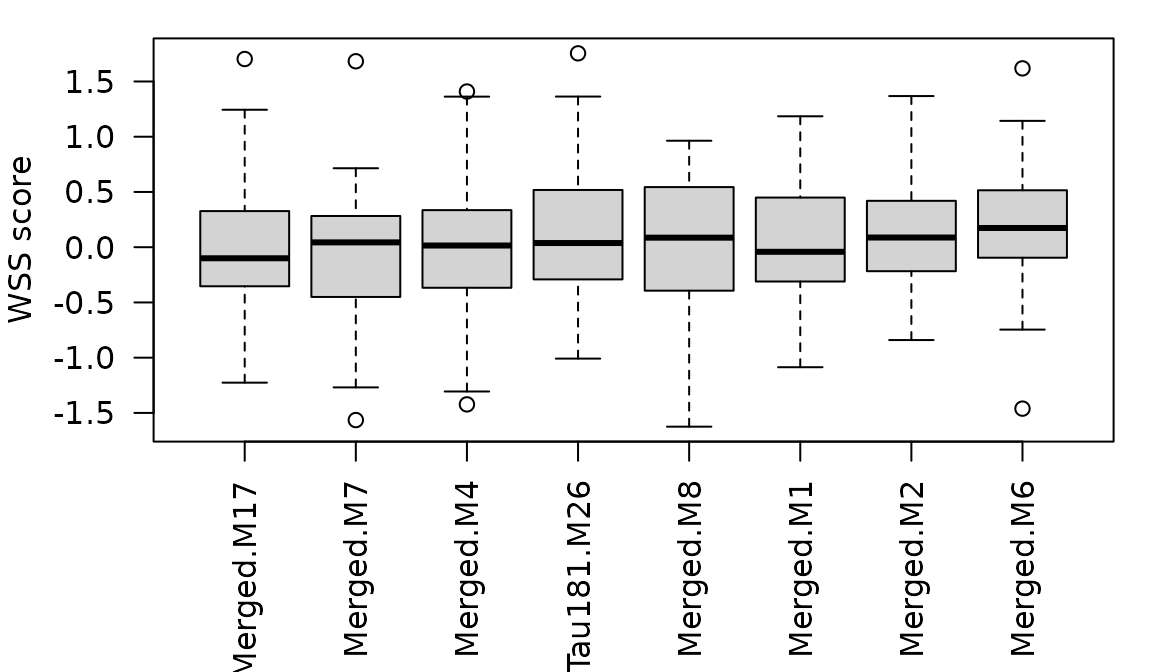
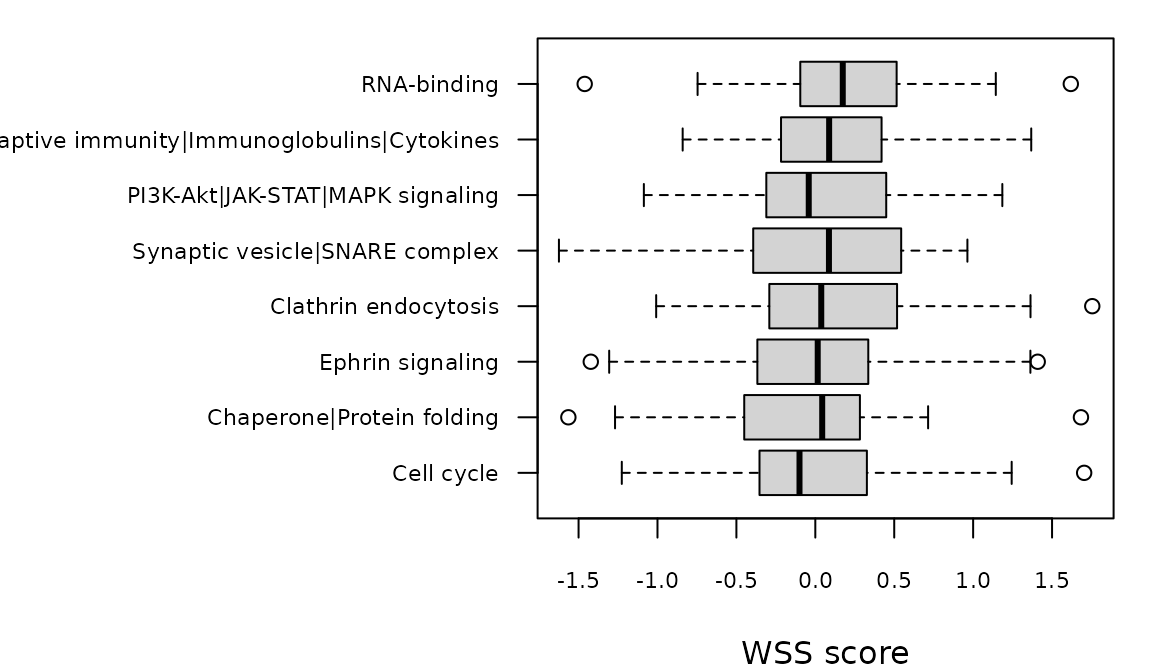
Deploying to gh-pages from @ Longo-Lab/WSSmod@9a12dceb0d66302b8cc1432f7b6e230580f3db20 🚀

diff --git a/articles/predicting-wss.html b/articles/predicting-wss.html
@@ -104,37 +104,12 @@ run only if both are installed.</p>
 <li>
 <code>Gender</code>, numeric, with <code>1</code> for male and
 <code>0</code> for not male,</li>
-<li>eight raw plasma biomarkers: <code>PlasmaPTau181</code>,
-<code>PlasmaAB142P</code>, <code>PlasmaAB140P</code>,
-<code>PlasmaABRatio</code>, <code>PlasmapTau217</code>,
-<code>PlasmapTau217_AB42Ratio</code>, <code>PlasmaGFAP</code> and
-<code>PlasmaNfL</code>.</li>
+<li>eight raw plasma biomarkers: Plasma pTau181, pTau217, Aβ42, Aβ40,
+NfL and GFAP were measured on the fully automated Lumipulse G 1200
+platform (Fujirebio US, Inc, Malvern, PA), following the recommendations
+of the NACC Working Group. The two ratio columns are derived from these
+measures (Aβ42/Aβ40 and pTau217/Aβ42).</li>
 </ul>
-<div class="section level3">
-<h3 id="how-the-biomarkers-were-measured">How the biomarkers were measured<a class="anchor" aria-label="anchor" href="#how-the-biomarkers-were-measured"></a>
-</h3>
-<p>The model was trained on plasma biomarkers measured as follows, and
-new values should come from a comparable procedure. Whole blood was
-collected into EDTA-coated tubes by standard venipuncture and
-centrifuged for 10 minutes at 2,000 x g at 22 °C. The plasma was
-aliquoted into polypropylene tubes and stored at –80 °C until
-analysis.</p>
-<p>Plasma pTau181, pTau217, Aβ42, Aβ40, NfL and GFAP were measured on
-the fully automated Lumipulse G 1200 platform (Fujirebio US, Inc,
-Malvern, PA), following the recommendations of the NACC Working Group.
-The two ratio columns are derived from these measures (Aβ42/Aβ40 and
-pTau217/Aβ42). Before analysis,</p>
-<ul>
-<li>for pTau181, Aβ42 and Aβ40, samples were thawed and centrifuged for
-5 minutes at 1,000 x g at 4 °C,</li>
-<li>for pTau217, GFAP and NfL, samples were thawed and centrifuged for
-10 minutes at 2,000 x g at 4 °C.</li>
-</ul>
-<p>The <code>PlasmaAB142P</code> and <code>PlasmaAB140P</code> columns
-hold the Aβ42 and Aβ40 values. The measurements were made by
-investigators blind to the demographic and clinical information of the
-samples.</p>
-</div>
 <div class="section level3">
 <h3 id="example-data">Example data<a class="anchor" aria-label="anchor" href="#example-data"></a>
 </h3>
@@ -304,10 +279,13 @@ from data on a different scale, such as z-scaled log2 ratios.</li>
 </ul>
 <div class="sourceCode" id="cb12"><pre class="downlit sourceCode r">
 <code class="sourceCode R"><span><span class="co"># Spread of the first eight predicted module scores (simulated data, no</span></span>
-<span><span class="co"># biological meaning)</span></span>
-<span><span class="fu"><a href="https://rdrr.io/r/graphics/par.html" class="external-link">par</a></span><span class="op">(</span>mar <span class="op">=</span> <span class="fu"><a href="https://rdrr.io/r/base/c.html" class="external-link">c</a></span><span class="op">(</span><span class="fl">6</span>, <span class="fl">4</span>, <span class="fl">1</span>, <span class="fl">1</span><span class="op">)</span><span class="op">)</span></span>
-<span><span class="fu"><a href="https://rdrr.io/r/graphics/boxplot.html" class="external-link">boxplot</a></span><span class="op">(</span><span class="va">pred</span><span class="op">$</span><span class="va">meta</span><span class="op">[</span>, <span class="fl">1</span><span class="op">:</span><span class="fl">8</span><span class="op">]</span>, las <span class="op">=</span> <span class="fl">2</span>, ylab <span class="op">=</span> <span class="st">"Predicted WSS score"</span><span class="op">)</span></span></code></pre></div>
-<p><img src="predicting-wss_files/figure-html/boxplot-1.png" class="r-plt" alt="Boxplots of predicted WSS scores for the first eight modules across 20 simulated patients." width="576"></p>
+<span><span class="co"># biological meaning), labeled by module term</span></span>
+<span><span class="va">terms</span> <span class="op">&lt;-</span> <span class="fu"><a href="../reference/wss_prebuilt_terms.html">wss_prebuilt_terms</a></span><span class="op">(</span><span class="st">"core_AD_plasma_biomarkers"</span><span class="op">)</span></span>
+<span><span class="va">labels</span> <span class="op">&lt;-</span> <span class="va">terms</span><span class="op">$</span><span class="va">term</span><span class="op">[</span><span class="fu"><a href="https://rdrr.io/r/base/match.html" class="external-link">match</a></span><span class="op">(</span><span class="fu"><a href="https://rdrr.io/r/base/colnames.html" class="external-link">colnames</a></span><span class="op">(</span><span class="va">pred</span><span class="op">$</span><span class="va">meta</span><span class="op">)</span><span class="op">[</span><span class="fl">1</span><span class="op">:</span><span class="fl">8</span><span class="op">]</span>, <span class="va">terms</span><span class="op">$</span><span class="va">name</span><span class="op">)</span><span class="op">]</span></span>
+<span><span class="fu"><a href="https://rdrr.io/r/graphics/par.html" class="external-link">par</a></span><span class="op">(</span>mar <span class="op">=</span> <span class="fu"><a href="https://rdrr.io/r/base/c.html" class="external-link">c</a></span><span class="op">(</span><span class="fl">4</span>, <span class="fl">14</span>, <span class="fl">1</span>, <span class="fl">1</span><span class="op">)</span><span class="op">)</span></span>
+<span><span class="fu"><a href="https://rdrr.io/r/graphics/boxplot.html" class="external-link">boxplot</a></span><span class="op">(</span><span class="va">pred</span><span class="op">$</span><span class="va">meta</span><span class="op">[</span>, <span class="fl">1</span><span class="op">:</span><span class="fl">8</span><span class="op">]</span>, names <span class="op">=</span> <span class="va">labels</span>, horizontal <span class="op">=</span> <span class="cn">TRUE</span>, las <span class="op">=</span> <span class="fl">1</span>,</span>
+<span>        cex.axis <span class="op">=</span> <span class="fl">0.7</span>, xlab <span class="op">=</span> <span class="st">"Predicted WSS score"</span><span class="op">)</span></span></code></pre></div>
+<p><img src="predicting-wss_files/figure-html/boxplot-1.png" class="r-plt" alt="Horizontal boxplots of predicted WSS scores for the first eight modules, labeled by module term, across 20 simulated patients." width="576"></p>
 </div>
 </div>
 <div class="section level2">

diff --git a/articles/calculating-wss.html b/articles/calculating-wss.html
@@ -196,10 +196,13 @@ scored module.</p>
 <span><span class="co">#&gt; [1] "ZWILCH" "SPC25"  "NDC80"  "WEE2"   "CKAP2"  "ZW10"</span></span></code></pre></div>
 <div class="sourceCode" id="cb9"><pre class="downlit sourceCode r">
 <code class="sourceCode R"><span><span class="co"># Spread of the first eight module scores (simulated data, no biological</span></span>
-<span><span class="co"># meaning)</span></span>
-<span><span class="fu"><a href="https://rdrr.io/r/graphics/par.html" class="external-link">par</a></span><span class="op">(</span>mar <span class="op">=</span> <span class="fu"><a href="https://rdrr.io/r/base/c.html" class="external-link">c</a></span><span class="op">(</span><span class="fl">6</span>, <span class="fl">4</span>, <span class="fl">1</span>, <span class="fl">1</span><span class="op">)</span><span class="op">)</span></span>
-<span><span class="fu"><a href="https://rdrr.io/r/graphics/boxplot.html" class="external-link">boxplot</a></span><span class="op">(</span><span class="va">res</span><span class="op">$</span><span class="va">scores</span><span class="op">[</span>, <span class="fl">1</span><span class="op">:</span><span class="fl">8</span><span class="op">]</span>, las <span class="op">=</span> <span class="fl">2</span>, ylab <span class="op">=</span> <span class="st">"WSS score"</span><span class="op">)</span></span></code></pre></div>
-<p><img src="calculating-wss_files/figure-html/boxplot-1.png" class="r-plt" alt="Boxplots of WSS scores for the first eight modules across the 50 simulated samples." width="576"></p>
+<span><span class="co"># meaning), labeled by module term</span></span>
+<span><span class="va">terms</span> <span class="op">&lt;-</span> <span class="fu"><a href="../reference/wss_prebuilt_terms.html">wss_prebuilt_terms</a></span><span class="op">(</span><span class="st">"core_AD_plasma_biomarkers"</span><span class="op">)</span></span>
+<span><span class="va">labels</span> <span class="op">&lt;-</span> <span class="va">terms</span><span class="op">$</span><span class="va">term</span><span class="op">[</span><span class="fu"><a href="https://rdrr.io/r/base/match.html" class="external-link">match</a></span><span class="op">(</span><span class="fu"><a href="https://rdrr.io/r/base/colnames.html" class="external-link">colnames</a></span><span class="op">(</span><span class="va">res</span><span class="op">$</span><span class="va">scores</span><span class="op">)</span><span class="op">[</span><span class="fl">1</span><span class="op">:</span><span class="fl">8</span><span class="op">]</span>, <span class="va">terms</span><span class="op">$</span><span class="va">name</span><span class="op">)</span><span class="op">]</span></span>
+<span><span class="fu"><a href="https://rdrr.io/r/graphics/par.html" class="external-link">par</a></span><span class="op">(</span>mar <span class="op">=</span> <span class="fu"><a href="https://rdrr.io/r/base/c.html" class="external-link">c</a></span><span class="op">(</span><span class="fl">4</span>, <span class="fl">14</span>, <span class="fl">1</span>, <span class="fl">1</span><span class="op">)</span><span class="op">)</span></span>
+<span><span class="fu"><a href="https://rdrr.io/r/graphics/boxplot.html" class="external-link">boxplot</a></span><span class="op">(</span><span class="va">res</span><span class="op">$</span><span class="va">scores</span><span class="op">[</span>, <span class="fl">1</span><span class="op">:</span><span class="fl">8</span><span class="op">]</span>, names <span class="op">=</span> <span class="va">labels</span>, horizontal <span class="op">=</span> <span class="cn">TRUE</span>, las <span class="op">=</span> <span class="fl">1</span>,</span>
+<span>        cex.axis <span class="op">=</span> <span class="fl">0.7</span>, xlab <span class="op">=</span> <span class="st">"WSS score"</span><span class="op">)</span></span></code></pre></div>
+<p><img src="calculating-wss_files/figure-html/boxplot-1.png" class="r-plt" alt="Horizontal boxplots of WSS scores for the first eight modules, labeled by module term, across the 50 simulated samples." width="576"></p>
 </div>
 <div class="section level2">
 <h2 id="using-your-own-module-table">Using your own module table<a class="anchor" aria-label="anchor" href="#using-your-own-module-table"></a>

diff --git a/articles/predicting-wss.md b/articles/predicting-wss.md
@@ -34,32 +34,11 @@ The model uses ten columns:
 
 - `Age`, in years,
 - `Gender`, numeric, with `1` for male and `0` for not male,
-- eight raw plasma biomarkers: `PlasmaPTau181`, `PlasmaAB142P`,
-  `PlasmaAB140P`, `PlasmaABRatio`, `PlasmapTau217`,
-  `PlasmapTau217_AB42Ratio`, `PlasmaGFAP` and `PlasmaNfL`.
-
-### How the biomarkers were measured
-
-The model was trained on plasma biomarkers measured as follows, and new
-values should come from a comparable procedure. Whole blood was
-collected into EDTA-coated tubes by standard venipuncture and
-centrifuged for 10 minutes at 2,000 x g at 22 °C. The plasma was
-aliquoted into polypropylene tubes and stored at –80 °C until analysis.
-
-Plasma pTau181, pTau217, Aβ42, Aβ40, NfL and GFAP were measured on the
-fully automated Lumipulse G 1200 platform (Fujirebio US, Inc, Malvern,
-PA), following the recommendations of the NACC Working Group. The two
-ratio columns are derived from these measures (Aβ42/Aβ40 and
-pTau217/Aβ42). Before analysis,
-
-- for pTau181, Aβ42 and Aβ40, samples were thawed and centrifuged for 5
-  minutes at 1,000 x g at 4 °C,
-- for pTau217, GFAP and NfL, samples were thawed and centrifuged for 10
-  minutes at 2,000 x g at 4 °C.
-
-The `PlasmaAB142P` and `PlasmaAB140P` columns hold the Aβ42 and Aβ40
-values. The measurements were made by investigators blind to the
-demographic and clinical information of the samples.
+- eight raw plasma biomarkers: Plasma pTau181, pTau217, Aβ42, Aβ40, NfL
+  and GFAP were measured on the fully automated Lumipulse G 1200
+  platform (Fujirebio US, Inc, Malvern, PA), following the
+  recommendations of the NACC Working Group. The two ratio columns are
+  derived from these measures (Aβ42/Aβ40 and pTau217/Aβ42).
 
 ### Example data
 
@@ -255,13 +234,17 @@ round(apply(pred$meta, 2, sd)[1:5], 2)
 ``` r
 
 # Spread of the first eight predicted module scores (simulated data, no
-# biological meaning)
-par(mar = c(6, 4, 1, 1))
-boxplot(pred$meta[, 1:8], las = 2, ylab = "Predicted WSS score")
+# biological meaning), labeled by module term
+terms <- wss_prebuilt_terms("core_AD_plasma_biomarkers")
+labels <- terms$term[match(colnames(pred$meta)[1:8], terms$name)]
+par(mar = c(4, 14, 1, 1))
+boxplot(pred$meta[, 1:8], names = labels, horizontal = TRUE, las = 1,
+        cex.axis = 0.7, xlab = "Predicted WSS score")
 ```
 
-![Boxplots of predicted WSS scores for the first eight modules across 20
-simulated patients.](predicting-wss_files/figure-html/boxplot-1.png)
+![Horizontal boxplots of predicted WSS scores for the first eight
+modules, labeled by module term, across 20 simulated
+patients.](predicting-wss_files/figure-html/boxplot-1.png)
 
 ## Intended use and limits
 

diff --git a/articles/calculating-wss.md b/articles/calculating-wss.md
@@ -150,13 +150,17 @@ head(res$module_proteins[["Merged.M17"]])
 ``` r
 
 # Spread of the first eight module scores (simulated data, no biological
-# meaning)
-par(mar = c(6, 4, 1, 1))
-boxplot(res$scores[, 1:8], las = 2, ylab = "WSS score")
+# meaning), labeled by module term
+terms <- wss_prebuilt_terms("core_AD_plasma_biomarkers")
+labels <- terms$term[match(colnames(res$scores)[1:8], terms$name)]
+par(mar = c(4, 14, 1, 1))
+boxplot(res$scores[, 1:8], names = labels, horizontal = TRUE, las = 1,
+        cex.axis = 0.7, xlab = "WSS score")
 ```
 
-![Boxplots of WSS scores for the first eight modules across the 50
-simulated samples.](calculating-wss_files/figure-html/boxplot-1.png)
+![Horizontal boxplots of WSS scores for the first eight modules, labeled
+by module term, across the 50 simulated
+samples.](calculating-wss_files/figure-html/boxplot-1.png)
 
 ## Using your own module table
 
